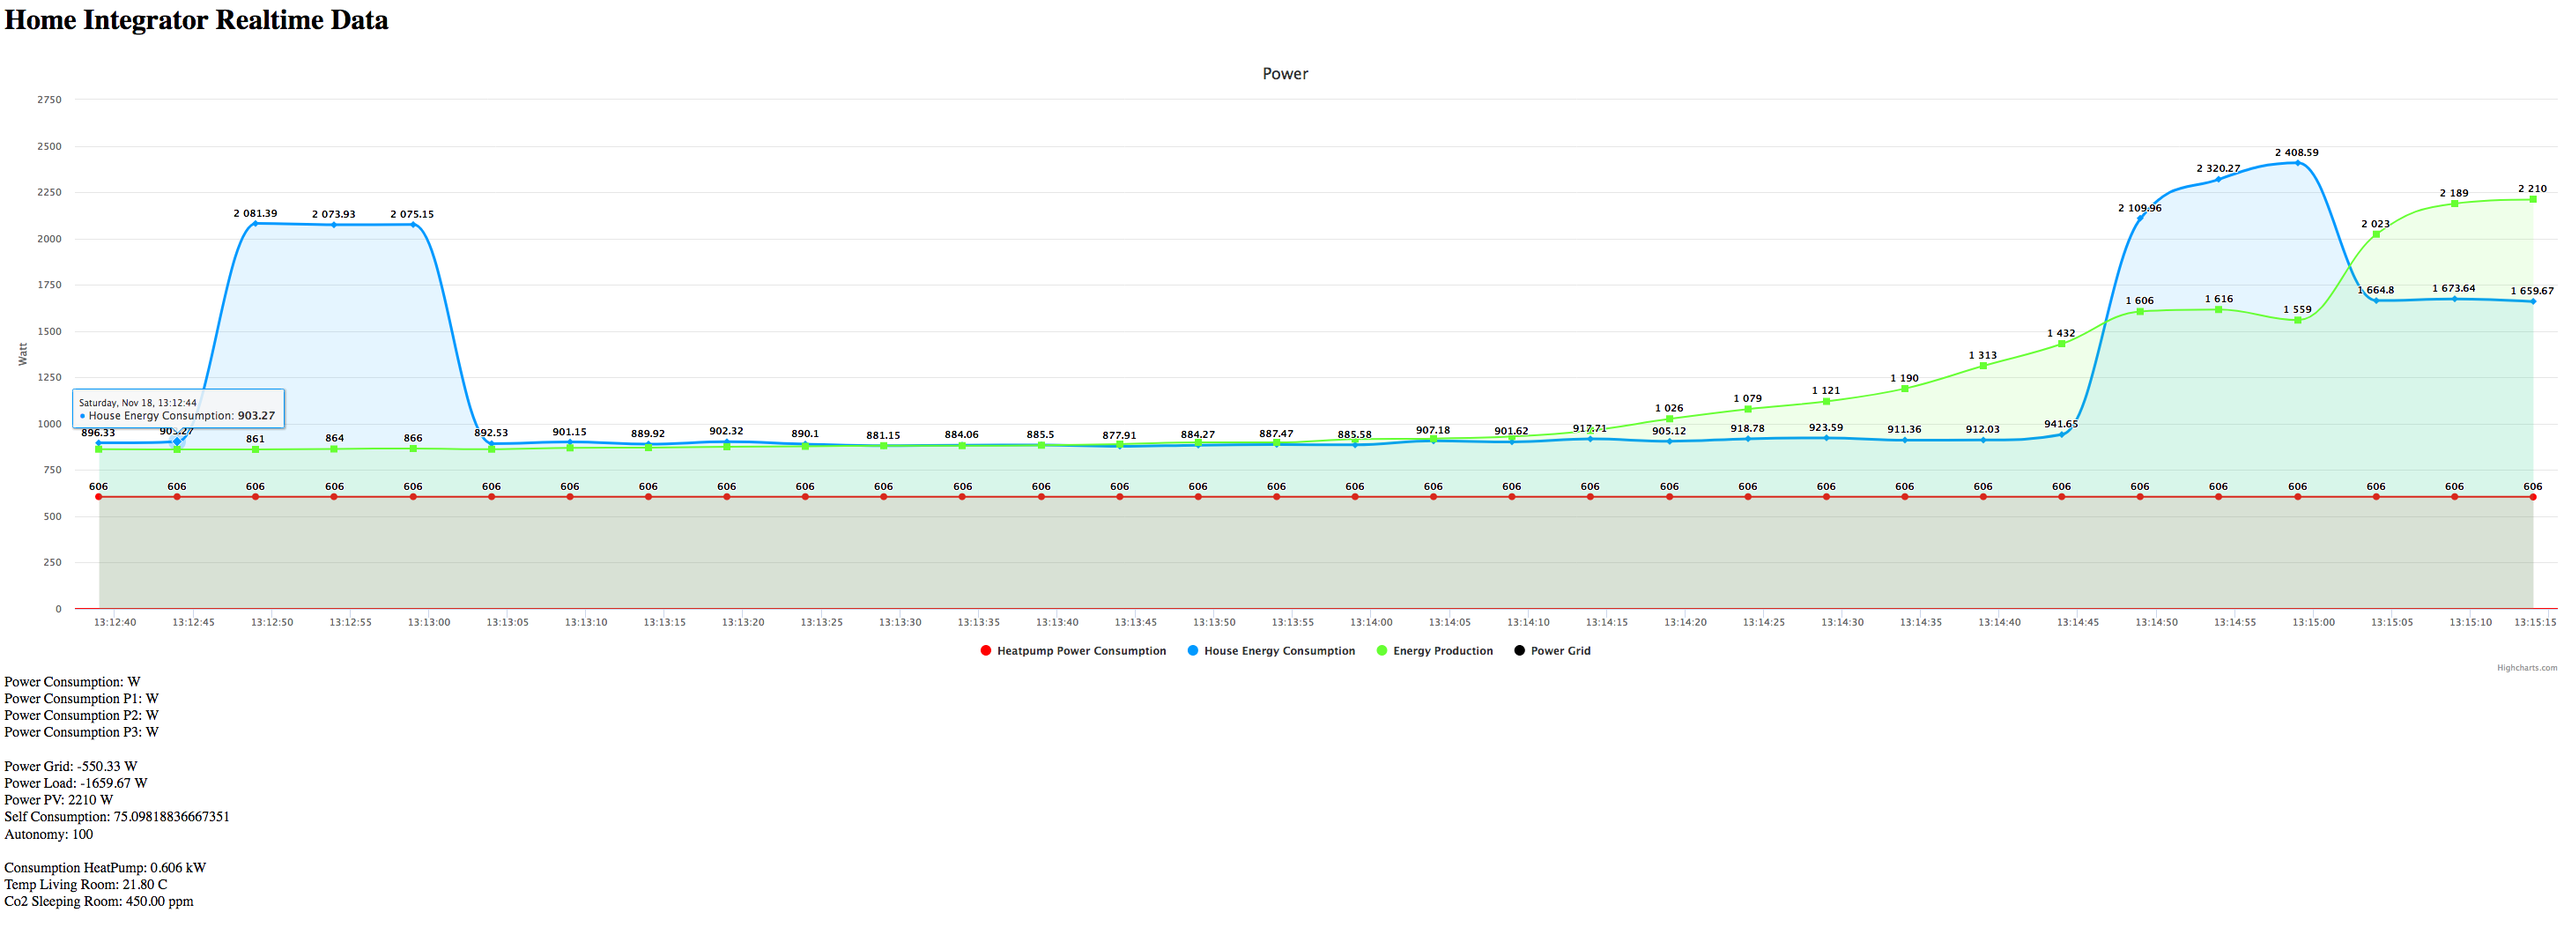
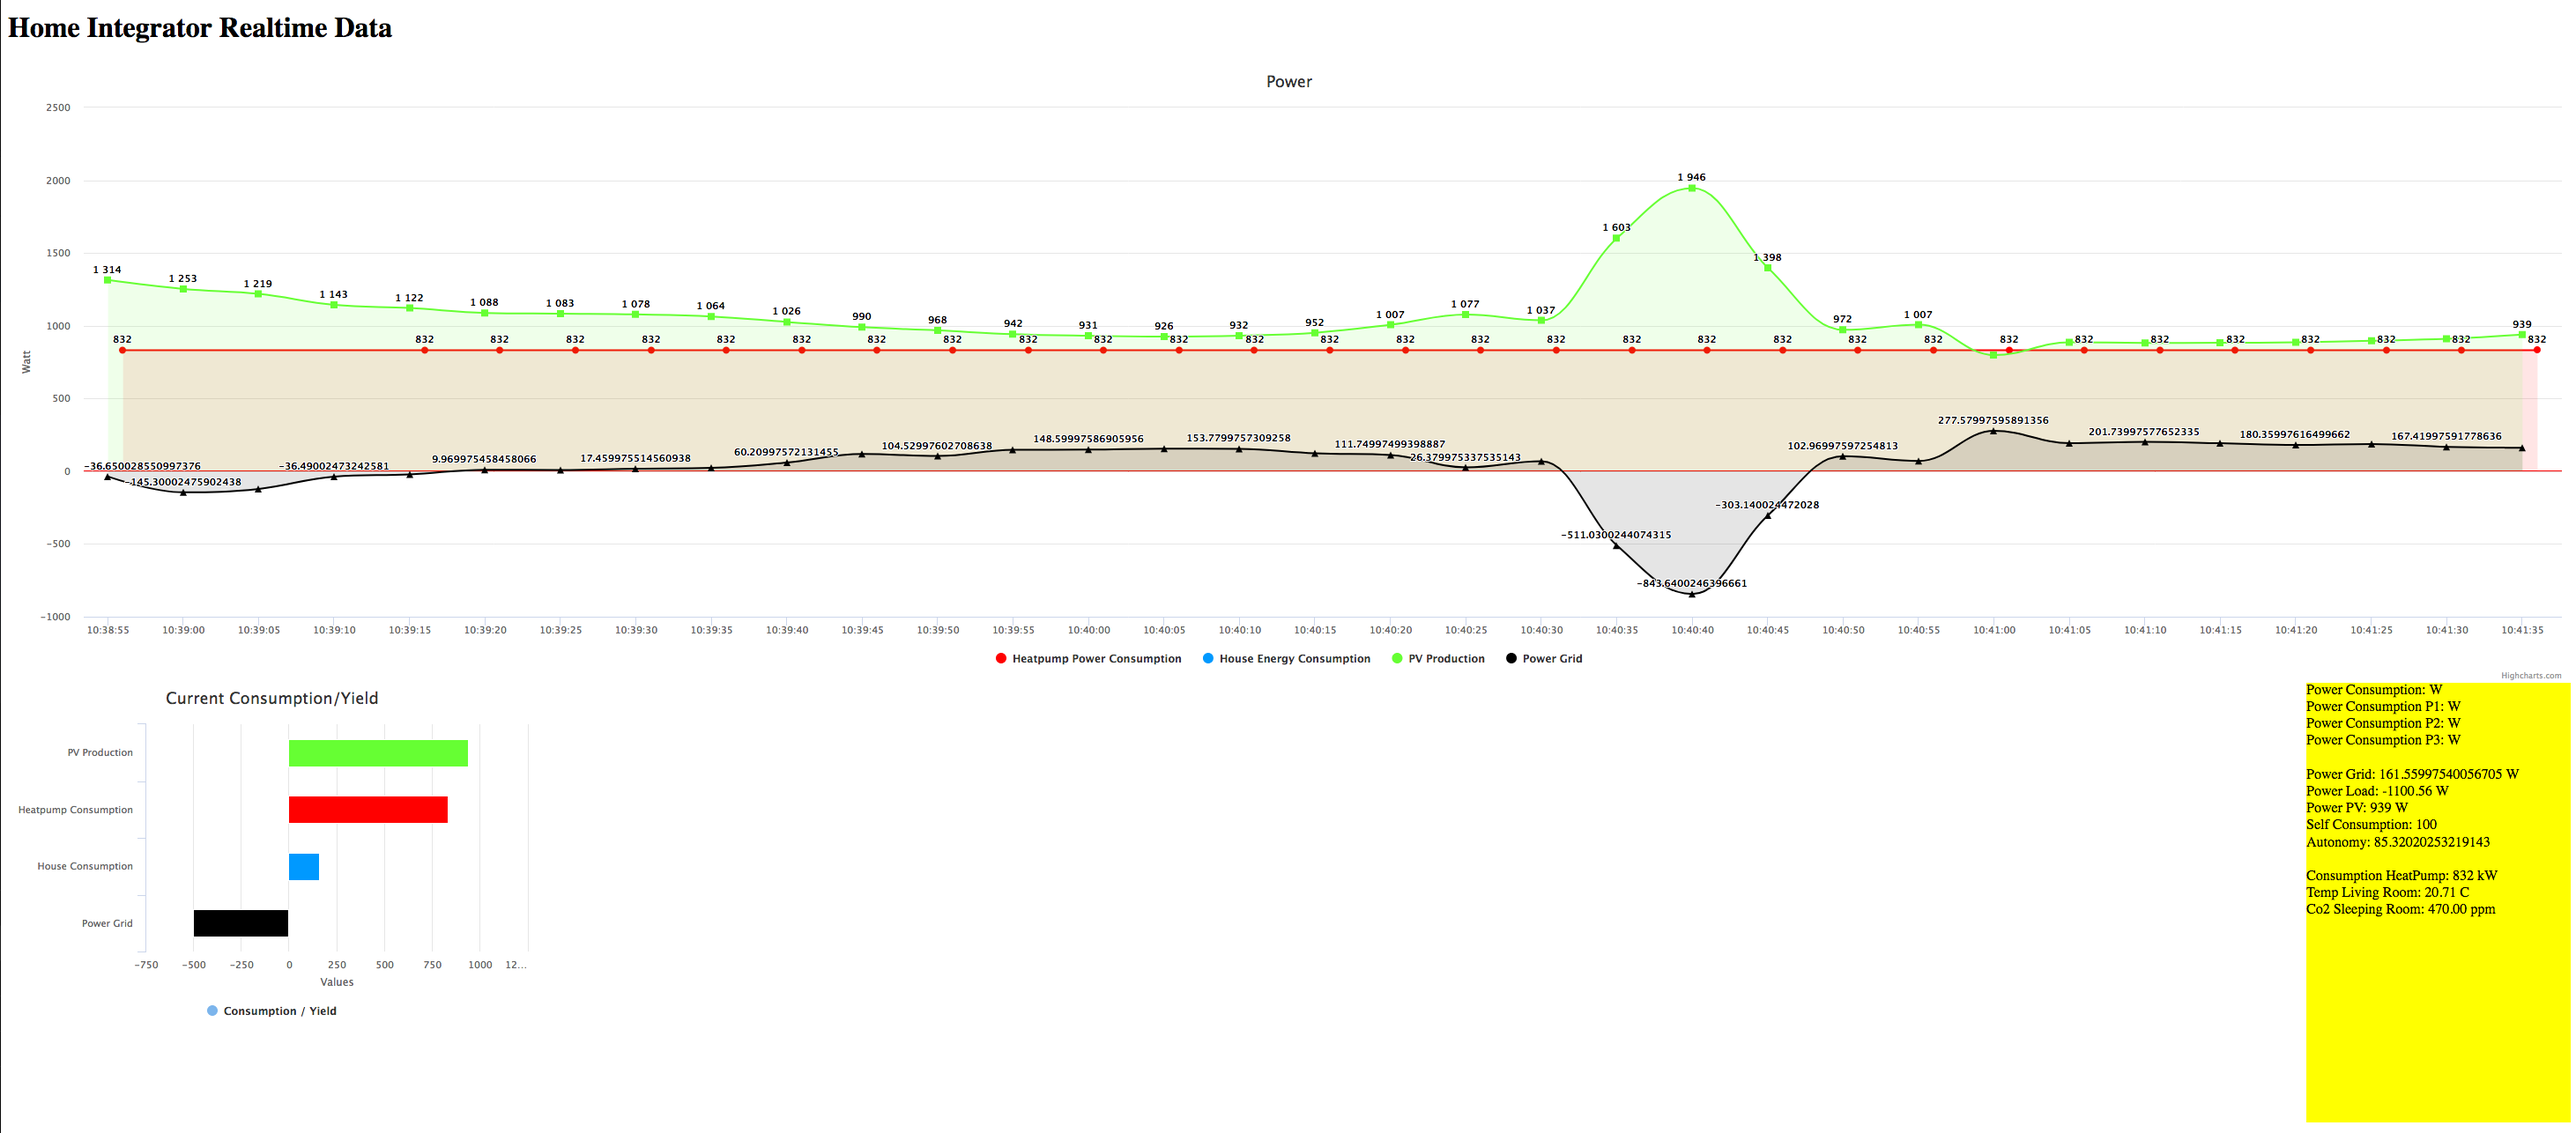
add barchart for current values

diff --git a/app/views/charts.scala.html b/app/views/charts.scala.html
@@ -5,7 +5,9 @@
         <script type="text/javascript" charset="utf-8">
                 var myChart;
                 $(function () {
-                    var options = {
+                    var heatpumpConsumption = 0;
+
+                    var areaChartOptions = {
                         title: {
                             text: 'Power'
                         },
@@ -47,7 +49,7 @@
                             color: '#0099ff',
                             data: []
                         }, {
-                            name: 'Energy Production',
+                            name: 'PV Production',
                             color: '#66ff33',
                             data: []
                         }, {
@@ -57,15 +59,48 @@
                         }]
                     };
 
-                    myChart = Highcharts.chart('chart', options);
+                    myChart = Highcharts.chart('chart', areaChartOptions);
+
+                    let categories = ['Power Grid', 'House Consumption', 'Heatpump Consumption', 'PV Production'];
+                    currentBarChart = Highcharts.chart('barchart', {
+                        chart: {
+                            type: 'bar'
+                        },
+                        title: {
+                            text: 'Current Consumption/Yield'
+                        },
+                        xAxis: {
+                            categories: categories,
+                            reversed: false,
+                            labels: {
+                                step: 1
+                            }
+                        },
+                        tooltip: {
+                            valueSuffix: 'W'
+                        },
+                        plotOptions: {
+                            series: {
+                                stacking: 'normal'
+                            }
+                        },
+                        credits: {
+                            enabled: false
+                        },
+                        series: [{
+                            name: "Consumption / Yield",
+                            data: [{y: -500, color: '#000000'}, {y: -500, color: '#0099ff'}, {y: -500, color: '#ff0000'}, {y: -500, color: '#66ff33'}]
+                        }],
+                    });
 
                     if (!!window.EventSource) {
                         var consumptionSource = new EventSource("@routes.HomeController.streamMyHomeControlRealtimeData()");
                         consumptionSource.addEventListener('message', function (event) {
                             var data = JSON.parse(event.data);
                             var date = data.timestamp * 1000;
-                            myChart.series[0].addPoint([date, data.heatpumpPowerConsumption * 1000]);
-                            $('#heatpumpPowerConsumption').html(data.heatpumpPowerConsumption)
+                            heatpumpConsumption = data.heatpumpPowerConsumption * 1000;
+                            myChart.series[0].addPoint([date, heatpumpConsumption]);
+                            $('#heatpumpPowerConsumption').html(heatpumpConsumption)
                             $('#livingRoomTemp').html(data.livingRoomTemp.toFixed(2))
                             $('#sleepingRoomCo2').html(data.sleepingRoomCo2.toFixed(2))
                         });
@@ -79,12 +114,14 @@
                             var autonomy = data.autonomy == null ? 0 : data.autonomy;
                             var powerGrid = data.powerGrid == null ? 0 : data.powerGrid;
                             var powerLoad = data.powerLoad == null ? 0 : data.powerLoad;
-                            powerGrid = powerGrid.toFixed(2)
-                            powerLoad = powerLoad.toFixed(2)
-                            console.log(powerLoad + " grid: " + powerGrid)
-                            myChart.series[1].addPoint([date, Math.abs(powerLoad)]);
+//                            powerGrid = powerGrid.toFixed(2)
+                            powerLoad = powerLoad.toFixed(2);
+                            console.log(powerLoad + " grid: " + powerGrid);
+                            myChart.series[1].addPoint([date, powerLoad]);
                             myChart.series[2].addPoint([date, powerPv]);
                             myChart.series[3].addPoint([date, powerGrid]);
+
+                            currentBarChart.series[0].setData([powerLoad, powerGrid, heatpumpConsumption, powerPv])
                             console.log(`${date} ${powerLoad} ${powerGrid}`)
                             $('#powerGrid').html(powerGrid)
                             $('#powerLoad').html(powerLoad)
@@ -100,25 +137,23 @@
         <h1>Home Integrator Realtime Data</h1>
         <div id="chart" style="width: 100%;
             height: 700px;"></div>
+        <div id="barchart" style="width: 600px;
+            height: 400px;"></div>
 
-        Power Consumption: <span id="powerConsumption"></span> W<br/>
-        Power Consumption P1: <span id="powerConsumptionP1"></span> W<br/>
-        Power Consumption P2: <span id="powerConsumptionP2"></span> W<br/>
-        Power Consumption P3: <span id="powerConsumptionP3"></span> W<br/>
-        <br/>
+        <div id="rawValues">
+            Power Grid: <span id="powerGrid"></span> W<br/>
+            Power Load: <span id="powerLoad"></span> W<br/>
+            Power PV: <span id="powerPv"></span> W<br/>
+            Self Consumption: <span id="selfConsumption"></span>
+            <br/>
+            Autonomy: <span id="autonomy"></span>
+            <br/>
+            <br/>
 
-        Power Grid: <span id="powerGrid"></span> W<br/>
-        Power Load: <span id="powerLoad"></span> W<br/>
-        Power PV: <span id="powerPv"></span> W<br/>
-        Self Consumption: <span id="selfConsumption"></span>
-        <br/>
-        Autonomy: <span id="autonomy"></span>
-        <br/>
-        <br/>
-
-        Consumption HeatPump: <span id="heatpumpPowerConsumption"></span> kW<br/>
-        Temp Living Room: <span id="livingRoomTemp"></span> C<br/>
-        Co2 Sleeping Room: <span id="sleepingRoomCo2"></span> ppm<br/>
+            Consumption HeatPump: <span id="heatpumpPowerConsumption"></span> kW<br/>
+            Temp Living Room: <span id="livingRoomTemp"></span> C<br/>
+            Co2 Sleeping Room: <span id="sleepingRoomCo2"></span> ppm<br/>
+        </div>
     </div>
 
 }

diff --git a/public/stylesheets/main.css b/public/stylesheets/main.css
@@ -1,0 +1,9 @@
+div#rawValues{
+    height:500px;width:300px;
+    background:yellow;
+    float:right;
+}
+
+div#barchart{
+    float:left;
+}
